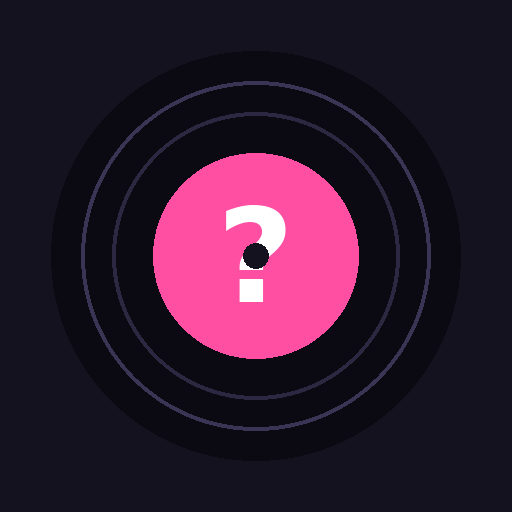
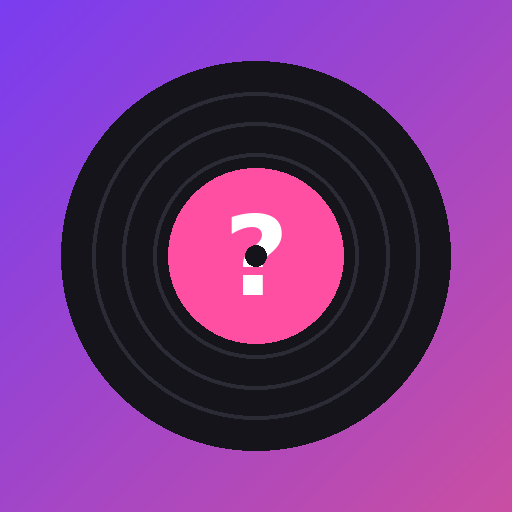
version 2.0
added final hints, last game rounds get now saved (history), added time-bonus if wanted by player (more points for lesser guessing time), changed pwa icon

diff --git a/index.html b/index.html
@@ -93,11 +93,14 @@ ol.h{padding-left:20px;margin:6px 0;font-size:.92rem}
     </div>
     <label for="sRounds">Runden</label>
     <select id="sRounds"><option value="5">5</option><option value="10">10</option><option value="20">20</option><option value="0">endlos</option></select>
+    <label class="chk"><input type="checkbox" id="sBonus"> <span>Zeitbonus (kürzer = mehr Punkte)</span></label>
+    <label for="sHint">Hinweis kostet</label><select id="sHint"><option value="0">0 Punkte</option><option value="1">1 Punkt</option><option value="2">2 Punkte</option><option value="3">3 Punkte</option></select>
     <div class="row"><button id="startBtn" data-ic="play"><span class="t">Spiel starten</span></button></div>
     <div class="msg" id="homeMsg" hidden></div>
     <div class="row"><button class="sec" id="plBtn">Playlists verwalten</button></div>
   </div>
-  <div class="sub ver">Song Guessr v1.3 (Etappe 2) · <a href="test.html">Testseite</a></div>
+  <div class="card" id="histCard" hidden><h2>Verlauf</h2><ol class="h" id="histList"></ol><div class="row"><button class="sec small" id="histClear">Verlauf löschen</button></div></div>
+  <div class="sub ver">Song Guessr v1.4 (Etappe 3) · <a href="test.html">Testseite</a></div>
 </section>
 
 <!-- ============ GAME ============ -->
@@ -137,6 +140,7 @@ ol.h{padding-left:20px;margin:6px 0;font-size:.92rem}
     <div id="whoWrap" hidden><label for="who">Wer hat zuerst geraten?</label><select id="who"></select></div>
     <div class="row"><button id="play" data-ic="play"><span class="t">Abspielen</span></button><button class="sec" id="pause" data-ic="pause"><span class="t">Pause</span></button></div>
     <div class="row"><button class="sec" id="showp" data-ic="video"><span class="t">Player anzeigen</span></button></div>
+    <div id="hintsBox"><div class="sub" style="margin-top:10px">Hinweise</div><div class="chips"><button class="chip" id="hG" disabled>Genre</button><button class="chip" id="hL" disabled>Länge</button><button class="chip" id="hS" disabled>Anfang</button></div><div id="hintOut" style="margin-top:6px"></div></div>
     <div class="row"><button id="reveal" disabled data-ic="eye"><span class="t">Aufdecken</span></button></div>
     <div class="sub" style="margin-top:6px">Aufdecken geht, sobald der Song einmal gespielt hat.</div>
     <div style="text-align:center;margin-top:4px"><button class="link" id="skip">Hängt? Anderen Song laden</button></div>
@@ -148,7 +152,7 @@ ol.h{padding-left:20px;margin:6px 0;font-size:.92rem}
     <label class="chk"><input type="checkbox" id="ckT"> <span id="ckTl"></span></label>
     <label class="chk"><input type="checkbox" id="ckA"> <span id="ckAl"></span></label>
     <div class="sub">Haken sind vorbelegt (ähnlicher Abgleich), du kannst sie korrigieren.</div>
-    <div class="big" id="ptsPrev"></div>
+    <div class="big" id="ptsPrev"></div><div class="sub" id="ptsInfo" style="text-align:center"></div>
     <div class="msg" id="whoMsg" hidden>Wenn nichts gewählt wird, wird für niemand ein Punkt vergeben. Zum Bestätigen nochmal tippen.</div>
     <div class="row"><button id="nextBtn" data-ic="arrow"><span class="t">Weiter</span></button></div>
   </div>
@@ -193,7 +197,7 @@ ol.h{padding-left:20px;margin:6px 0;font-size:.92rem}
   <li>Titel und Interpret eintippen, dann <b>Aufdecken</b>. Du siehst YouTube-Titel und Kanal, die Haken sind vorbelegt und von dir änderbar.</li>
   <li><b>Weiter</b> bucht die Punkte und startet die nächste Runde (wieder per Tipp auf Abspielen).</li></ol>
   <h3>Punkte</h3>
-  <p>Titel richtig: <b>2</b> Punkte, Interpret richtig: <b>1</b> Punkt. Der Abgleich ist tolerant: Groß/Klein, Akzente, Reihenfolge und kleine Tippfehler sind egal. Steht in beiden Feldern derselbe Text, zählt er nur einmal. Hinweise und Zeitbonus kommen in einer späteren Version.</p>
+  <p>Titel richtig: <b>2</b> Punkte, Interpret richtig: <b>1</b> Punkt. Der Abgleich ist tolerant: Groß/Klein, Akzente, Reihenfolge und kleine Tippfehler sind egal. Steht in beiden Feldern derselbe Text, zählt er nur einmal. <b>Zeitbonus</b> (abschaltbar): 3 s ×3, 10 s ×2, 20 s ×1,5; beim ganzen Song sinkt er mit der gehörten Zeit (bis 3 s ×3, bis 10 s ×2, bis 20 s ×1,5, danach ×1). <b>Hinweise</b> (Genre, Länge, Anfang) kosten je Punkte (einstellbar), die Runde gibt nie unter 0. „Player anzeigen“ ist kostenlos (für Werbung).</p>
   <h3>Freunde-Modus</h3><p>Im Modus „Freunde (ein Gerät)“ trägst du 2 bis 12 Namen ein. Pro Runde wählst du im Feld „Wer hat zuerst geraten?“ die Person (oder „niemand“), die Punkte gehen an sie. Wählst du niemanden und es gibt Punkte, warnt der rote Weiter-Knopf einmal, beim zweiten Tippen gilt „niemand“. Am Ende gibt es Rangliste, Sieger oder Gleichstand.</p><h3>Player / Werbung</h3><p>„Hängt? Anderen Song laden“ ist nur der Notknopf, falls ein Song nicht startet.</p>
   <p><b>Player anzeigen</b> blendet das Video ein, damit du Werbung wegklicken kannst. Werbung automatisch zu erkennen geht nicht.</p>
   <p>Beste Nutzung mit Adblocker. Beobachtet: <b>Chrome</b> zeigt bei jedem Song Werbung, <b>Brave</b> blockt sie von selbst. Auch <b>Firefox mit uBlock Origin</b> sollte gehen (nicht geprüft). Ob der Blocker im <i>installierten</i> App-Fenster (PWA) greift, ist offen.</p>
@@ -219,9 +223,9 @@ const esc=s=>String(s).replace(/[&<>"]/g,c=>({'&':'&amp;','<':'&lt;','>':'&gt;',
 /* ---------- Speicher ---------- */
 let DB=loadDB();
 function loadDB(){let o={};try{o=JSON.parse(localStorage.getItem(K))||{}}catch(e){}
-  o.settings=Object.assign({len:10,start:'random',rounds:10,genres:[],mode:'solo',names:['','']},o.settings);
+  o.settings=Object.assign({len:10,start:'random',rounds:10,genres:[],mode:'solo',names:['',''],timeBonus:true,hintCost:1},o.settings);
   o.pl=Object.assign({discardDefaults:false,override:{},off:{},custom:[]},o.pl);
-  o.idCache=o.idCache||{};return o;}
+  o.idCache=o.idCache||{};o.history=Array.isArray(o.history)?o.history:[];return o;}
 function save(){try{localStorage.setItem(K,JSON.stringify(DB))}catch(e){}}
 
 /* ---------- Helfer ---------- */
@@ -288,7 +292,7 @@ function activeSources(){
 
 /* ---------- YouTube ---------- */
 const S={player:null,decks:{},bad:{},score:0,round:0,hist:[],cur:null,srcKey:null,seg:null,first:false,seeked:false,started:false,vd:null,revealed:false,endT:null,wd:null,retry:0,busy:false,pshown:false,pi:null,parsed:null,active:false};
-S.names=[];S.scores={};S.friends=false;S.errRun=0;
+S.names=[];S.scores={};S.friends=false;S.errRun=0;S.hint={};S.hintCost=0;S.heard=0;S.mult=1;
 function loadApi(){
   if(window.YT&&window.YT.Player)return Promise.resolve();
   return new Promise((res,rej)=>{window.onYouTubeIframeAPIReady=res;const s=document.createElement('script');s.src='https://www.youtube.com/iframe_api';s.onerror=()=>rej(new Error('YouTube-API nicht ladbar (Netz?)'));document.head.appendChild(s);setTimeout(()=>rej(new Error('Zeitüberschreitung beim Laden der YouTube-API')),12000);});
@@ -338,7 +342,7 @@ const IC={play:SV('M8 5v14l11-7z'),pause:SV('M6 5h4v14H6zM14 5h4v14h-4z'),
 function setT(id,t){const e=$(id).querySelector('.t');if(e)e.textContent=t;}
 function setPlayBtn(replay){$('play').innerHTML=IC[replay?'replay':'play']+'<span class="t">'+(replay?'Nochmal hören':'Abspielen')+'</span>';}
 function setTT(st){const t=$('tt');t.classList.toggle('loading',st==='loading');t.classList.toggle('playing',st==='playing');}
-function setBusy(on){S.busy=on;['play','pause','reveal','skip'].forEach(i=>$(i).disabled=on);if(!on)$('reveal').disabled=!S.vd||S.revealed;}
+function setBusy(on){S.busy=on;['play','pause','reveal','skip'].forEach(i=>$(i).disabled=on);if(!on)$('reveal').disabled=!S.vd||S.revealed;updateHints();}
 function hud(){const r=DB.settings.rounds;$('hud').textContent='Runde '+(S.round+1)+(r?'/'+r:'')+(S.friends?'':' · '+S.score+' Punkte');$('scores').textContent=S.friends?S.names.map(n=>n+' '+S.scores[n]).join(' · '):'';}
 function placePlayer(){
   const pw=$('pw');
@@ -358,7 +362,7 @@ function renderHome(){
 $('chips').addEventListener('click',e=>{const b=e.target.closest('.chip');if(!b||b.disabled)return;const id=b.dataset.g,a=DB.settings.genres;const i=a.indexOf(id);i>=0?a.splice(i,1):a.push(id);save();renderHome();});
 ['sLen','sStart','sRounds'].forEach(id=>$(id).addEventListener('change',()=>{DB.settings.len=+$('sLen').value;DB.settings.start=$('sStart').value;DB.settings.rounds=+$('sRounds').value;save();}));
 function homeError(m){show('home');$('homeMsg').textContent=m;$('homeMsg').hidden=false;}
-function renderMode(){const f=DB.settings.mode==='friends';$('mSolo').setAttribute('aria-pressed',String(!f));$('mFriends').setAttribute('aria-pressed',String(f));$('namesBox').hidden=!f;if(f)renderNames();}
+function renderMode(){renderExtras();const f=DB.settings.mode==='friends';$('mSolo').setAttribute('aria-pressed',String(!f));$('mFriends').setAttribute('aria-pressed',String(f));$('namesBox').hidden=!f;if(f)renderNames();}
 function renderNames(){const st=DB.settings;if(!Array.isArray(st.names))st.names=[];while(st.names.length<2)st.names.push('');
   $('names').innerHTML=st.names.map((n,i)=>`<div class="row" style="margin-top:6px"><input type="text" data-i="${i}" value="${esc(n)}" placeholder="Name ${i+1}" maxlength="20" autocomplete="off"><button class="sec small" data-rm="${i}" style="flex:0 0 48px" aria-label="Entfernen" ${st.names.length<=2?'disabled':''}>✕</button></div>`).join('');
   $('addPerson').disabled=st.names.length>=12;}
@@ -375,12 +379,12 @@ function resetRoundUI(){
   stopTimers();try{S.player&&S.player.pauseVideo();}catch(e){}
   $('inTitle').value='';$('inArtist').value='';$('rev').hidden=true;setTT('idle');$('who').value='';$('whoMsg').hidden=true;S.warned=false;$('nextBtn').classList.remove('warn');
   $('label').setAttribute('fill','hsl('+Math.floor(Math.random()*360)+' 75% 55%)');
-  S.cur=null;S.seg=null;S.started=false;S.vd=null;S.revealed=false;S.parsed=null;S.first=false;S.seeked=false;
+  S.cur=null;S.seg=null;S.started=false;S.vd=null;S.revealed=false;S.parsed=null;S.first=false;S.seeked=false;resetHints();
   setPlayBtn(false);showPlayer(false);hud();
 }
 async function newSong(note,auto){
   setBusy(true);resetRoundUI();setStatus('Song wird ausgewählt …');
-  try{await ensurePlayer();const p=await pickSong();S.cur=p.vid;S.srcKey=p.key;setBusy(false);if(auto){setStatus(note||'');play();}else setStatus((note?note+' ':'')+'Tippe auf „Abspielen“.');}
+  try{await ensurePlayer();const p=await pickSong();S.cur=p.vid;S.srcKey=p.key;updateHints();setBusy(false);if(auto){setStatus(note||'');play();}else setStatus((note?note+' ':'')+'Tippe auf „Abspielen“.');}
   catch(e){S.active=false;homeError(e.message);}
 }
 async function startGame(){
@@ -413,7 +417,7 @@ function wdFire(){
 }
 function updateInfo(){try{const d=S.player.getVideoData();if(d&&d.title)S.vd=d;}catch(e){}}
 function startSegment(){
-  const c=cfg();updateInfo();setStatus('spielt …');
+  const c=cfg();updateInfo();setStatus('spielt …');updateHints();
   if(!S.revealed)$('reveal').disabled=!S.vd;
   if(c.len>0){clearTimeout(S.endT);S.endT=setTimeout(()=>{try{S.player.pauseVideo();}catch(e){}setStatus('Ausschnitt vorbei – rate!');},c.len*1000);}
 }
@@ -440,7 +444,7 @@ function onError(e){
 }
 function reveal(){
   updateInfo();if(!S.vd||!S.vd.title){setStatus('Erst einmal abspielen.');return;}
-  S.revealed=true;$('reveal').disabled=true;
+  S.revealed=true;S.mult=timeMult();$('reveal').disabled=true;updateHints();
   const p=S.parsed=parseYT(S.vd.title,S.vd.author);
   $('rTitle').textContent=S.vd.title;$('rChan').textContent=S.vd.author||'–';
   $('rParsed').textContent=(p.artist?p.artist+' – ':'')+p.title+(p.artist?'':'  (Interpret ≈ Kanal: '+(p.channel||'–')+')');
@@ -451,7 +455,8 @@ function reveal(){
   showPlayer(true);setStatus('');
   setTimeout(()=>$('rev').scrollIntoView({behavior:'smooth',block:'nearest'}),50);
 }
-function ptsPrev(){const n=($('ckT').checked?PTS.title:0)+($('ckA').checked?PTS.artist:0);$('ptsPrev').textContent='+'+n+' Punkte';return n;}
+function ptsPrev(){const raw=($('ckT').checked?PTS.title:0)+($('ckA').checked?PTS.artist:0);const n=Math.max(0,Math.round(raw*S.mult)-S.hintCost);$('ptsPrev').textContent='+'+n+' Punkte';
+  const b=[];if(S.mult!==1)b.push('Zeitbonus ×'+String(S.mult).replace('.',','));if(S.hintCost)b.push('Hinweise −'+S.hintCost);$('ptsInfo').textContent=raw?b.join(' · '):'';return n;}
 function commit(){
   let who='';const n=ptsPrev();
   if(S.friends){who=$('who').value;if(!who){
@@ -463,7 +468,7 @@ function commit(){
   if(DB.settings.rounds&&S.round>=DB.settings.rounds)endGame();else newSong();
 }
 function endGame(){
-  stopTimers();try{S.player&&S.player.pauseVideo();}catch(e){}S.active=false;
+  if(S.hist.length)pushHistory();stopTimers();try{S.player&&S.player.pauseVideo();}catch(e){}S.active=false;
   if(S.friends){
     const arr=S.names.map(n=>[n,S.scores[n]]).sort((a,b)=>b[1]-a[1]);const top=arr[0][1],win=arr.filter(x=>x[1]===top).map(x=>x[0]);
     $('endScore').textContent=!S.hist.length?'–':(win.length>1?'Gleichstand: '+win.join(' & '):'🏆 '+win[0]);
@@ -539,6 +544,32 @@ $('helpBtn').onclick=()=>$('helpBg').hidden=false;
 $('helpClose').onclick=()=>$('helpBg').hidden=true;
 $('helpBg').addEventListener('click',e=>{if(e.target.id==='helpBg')$('helpBg').hidden=true;});
 
+/* ---------- Zeitbonus, Hinweise, Verlauf ---------- */
+function timeMult(){if(DB.settings.timeBonus===false)return 1;const l=+DB.settings.len;if(l>0)return {3:3,10:2,20:1.5}[l]||1;const h=S.heard;return h<=3?3:h<=10?2:h<=20?1.5:1;}
+setInterval(()=>{if(S.player&&S.started&&!S.revealed){try{if(S.player.getPlayerState()===1&&!(S.player.isMuted&&S.player.isMuted()))S.heard+=0.25;}catch(e){}}},250);
+function resetHints(){S.hint={};S.hintCost=0;S.heard=0;S.mult=1;$('hintOut').innerHTML='';updateHints();}
+function updateHints(){const c=DB.settings.hintCost,x=c?' (−'+c+')':'';const ok=!S.revealed&&!S.busy;
+  [['hG','Genre',!!S.cur],['hL','Länge',!!S.vd],['hS','Anfang',!!S.vd]].forEach(([id,t,have])=>{$(id).textContent=t+x;$(id).disabled=!(ok&&have)||!!S.hint[id[1]];});}
+function useHint(k){
+  if(S.hint[k]||S.revealed)return;let txt='';
+  if(k==='G'){const s=sources().find(x=>x.key===S.srcKey);txt='Genre: '+(s?(s.custom?s.name:s.genreName):'?');}
+  else{updateInfo();if(!S.vd)return;const p=parseYT(S.vd.title,S.vd.author),t=p.title||p.whole,isL=/[\p{L}\p{N}]/u;
+    const n=[...t].filter(ch=>isL.test(ch)).length;
+    if(k==='L')txt='Titel: '+n+' Buchstaben in '+t.split(/\s+/).filter(Boolean).length+' Wörtern';
+    else{const kk=Math.max(1,Math.ceil(n*0.1));let c=0;txt='Anfang: '+[...t].map(ch=>isL.test(ch)?(c++<kk?ch:'_'):ch).join('');}}
+  S.hint[k]=txt;S.hintCost+=DB.settings.hintCost;$('hintOut').innerHTML=Object.values(S.hint).map(esc).join('<br>');updateHints();
+}
+$('hG').onclick=()=>useHint('G');$('hL').onclick=()=>useHint('L');$('hS').onclick=()=>useHint('S');
+function pushHistory(){const st=DB.settings,f=S.friends,gl=genreList();
+  DB.history.unshift({t:Date.now(),f:f,r:S.hist.length,g:st.genres.length?st.genres.map(id=>(gl.find(g=>g.id===id)||{}).name||id).join(', '):'gemischt',res:f?S.names.map(n=>[n,S.scores[n]]).sort((a,b)=>b[1]-a[1]):S.score});
+  DB.history=DB.history.slice(0,30);save();}
+function renderExtras(){const st=DB.settings;$('sBonus').checked=st.timeBonus!==false;$('sHint').value=String(st.hintCost);
+  const h=DB.history;$('histCard').hidden=!h.length;
+  $('histList').innerHTML=h.slice(0,10).map(e=>{const d=new Date(e.t),ds=d.toLocaleDateString('de-DE',{day:'2-digit',month:'2-digit'})+' '+d.toLocaleTimeString('de-DE',{hour:'2-digit',minute:'2-digit'});
+    return `<li>${ds} · ${e.f?'Freunde':'Solo'} · ${e.r} Runden · ${esc(e.g)}<br><b>${e.f?e.res.map(x=>esc(x[0])+' '+x[1]).join(', '):e.res+' Punkte'}</b></li>`;}).join('');}
+$('sBonus').onchange=()=>{DB.settings.timeBonus=$('sBonus').checked;save();};
+$('sHint').onchange=()=>{DB.settings.hintCost=+$('sHint').value;save();};
+$('histClear').onclick=()=>{DB.history=[];save();renderHome();};
 if('serviceWorker' in navigator&&location.protocol.startsWith('http'))navigator.serviceWorker.register('sw.js').catch(()=>{});
 document.querySelectorAll('[data-ic]').forEach(b=>b.insertAdjacentHTML('afterbegin',IC[b.dataset.ic]));renderHome();
 window.__sg={S:S,DB:function(){return DB},parseYT,judge,cleanTitle,norm,scoreTitle,scoreArtist};

diff --git a/sw.js b/sw.js
@@ -1,6 +1,6 @@
 // Song Guessr Service Worker – Network-first (du bearbeitest playlists.js oft), Cache als Offline-Fallback.
 const PREFIX = 'songguessr-';
-const CACHE = PREFIX + 'v3';
+const CACHE = PREFIX + 'v4';
 const SHELL = ['./', 'index.html', 'test.html', 'playlists.js', 'manifest.webmanifest', 'icon-192.png', 'icon-512.png'];
 
 self.addEventListener('install', e => {
